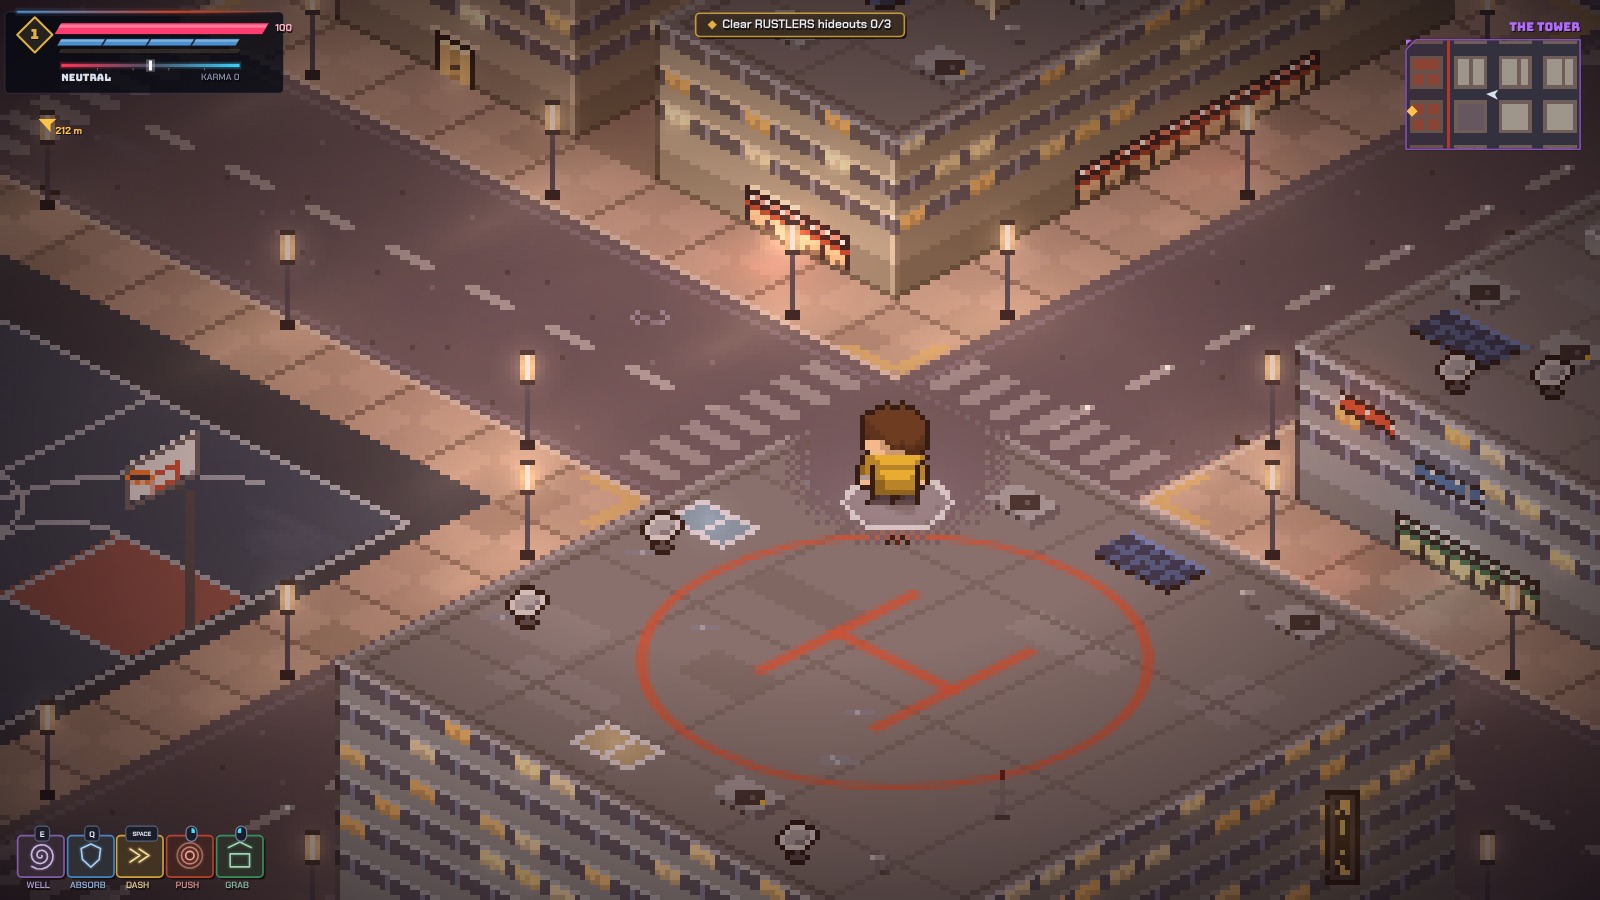
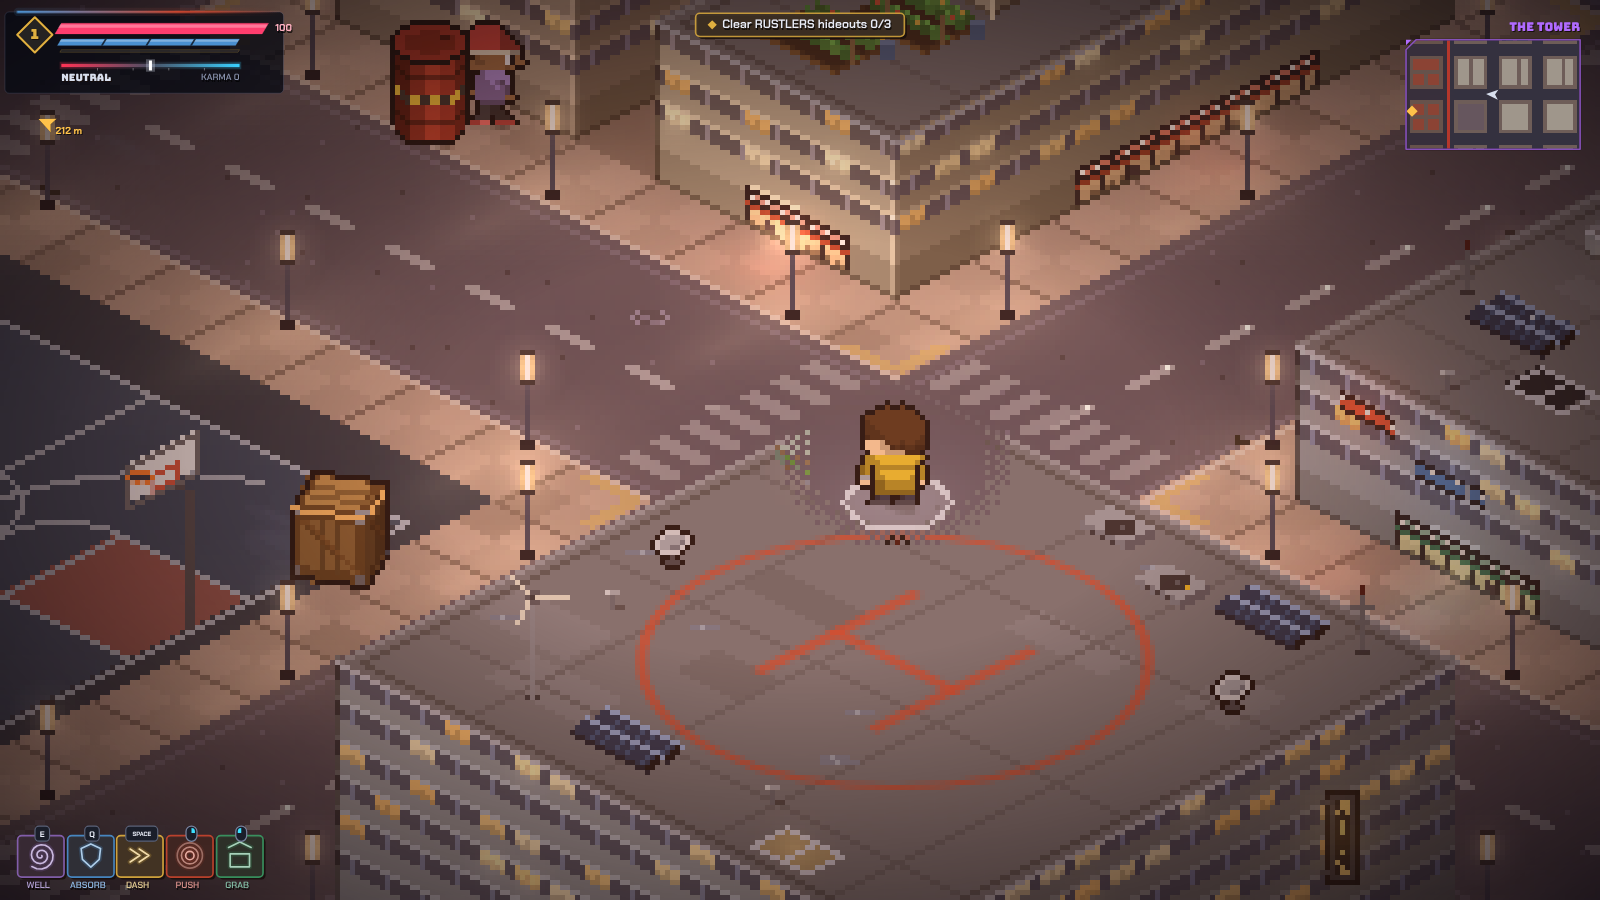
World: moss and ivy on walls; rooftop solar, gardens, greenhouses, wind turbines
The city is patched up by its people: tilted solar panels on roofs in
every district, raised vegetable beds with rain barrels, small
greenhouses with a warm grow-light, home-made wind turbines whose
blades turn. Walls get damp moss at the foot, streaks under the roof
edge and the odd climbing ivy (most in the Slums).

Claude-Session: https://claude.ai/code/session_01TQrqJid8SEs5fJFtrpg3VS

diff --git a/dist/gravitation.html b/dist/gravitation.html
@@ -7267,14 +7267,15 @@ function roofPlan(b) {
     const kind = rnd() < .45 ? 'pic' : rnd() < .5 ? 'txt' : 'both';
     place('bill', kind === 'pic' ? 26 : 44, 6, { kind, pic: (rnd() * SIGN_PIC.length) | 0, g: [(rnd() * 6) | 0, (rnd() * 6) | 0, (rnd() * 6) | 0], ci: (rnd() * 4) | 0, mode: rnd() < .6 ? 0 : rnd() < .5 ? 1 : 2, ph: rnd() * 10 }, .45);
   }
-  const menu = [[['ac', 3], ['hut', 1.2], ['sky', 1.5], ['tank', 1], ['vent', 2], ['dish', 1], ['mast', .7]],
-                [['tank', 2], ['tarp', 2], ['line', 1.6], ['hut', 1], ['vent', 2], ['ac', 1], ['sky', .5]],
-                [['ac', 3], ['solar', 2.6], ['dish', 1.4], ['mast', 1], ['sky', 1], ['vent', 1]]][d];
-  const size = { ac: [18, 12], hut: [20, 16], sky: [22, 14], tank: [14, 14], vent: [4, 4], dish: [8, 8], mast: [4, 4], tarp: [20, 14], line: [28, 4], solar: [30, 16] };
+  // the world: people power and feed themselves (solar everywhere, rooftop gardens, home-made turbines)
+  const menu = [[['ac', 2], ['hut', 1.2], ['sky', 1], ['tank', 1], ['vent', 1.5], ['dish', 1], ['mast', .5], ['solar', 2.2], ['garden', 1.6], ['turbine', .7], ['green', .6]],
+                [['tank', 2], ['tarp', 2], ['line', 1.6], ['hut', 1], ['vent', 1.5], ['solar', 1.6], ['garden', 2.2], ['turbine', 1], ['green', .5]],
+                [['ac', 2], ['solar', 3], ['dish', 1.2], ['mast', .8], ['sky', 1], ['vent', 1], ['green', 1.2], ['garden', .8], ['turbine', .5]]][d];
+  const size = { ac: [18, 12], hut: [20, 16], sky: [22, 14], tank: [14, 14], vent: [4, 4], dish: [8, 8], mast: [4, 4], tarp: [20, 14], line: [28, 4], solar: [30, 16], garden: [30, 20], green: [26, 18], turbine: [6, 6] };
   const total = menu.reduce((a, m) => a + m[1], 0), n = clamp(Math.round(w * h / 2400), 2, 16);
   for (let i = 0; i < n; i++) {
     let r = rnd() * total, k = menu[0][0]; for (const m of menu) { if (r < m[1]) { k = m[0]; break; } r -= m[1]; }
-    if ((k === 'hut' || k === 'mast') && R.some(o => o.k === k)) k = 'vent';
+    if ((k === 'hut' || k === 'mast' || k === 'green') && R.some(o => o.k === k)) k = 'vent';
     place(k, size[k][0], size[k][1], { c: (rnd() * 4) | 0 });
   }
   if ((hash2(b.x, b.y) & 3) === 0 && !R.some(o => o.k === 'mast')) place('mast', 4, 4, {});   // the old red rooftop light keeps its place in the skyline
@@ -7366,11 +7367,38 @@ function paintRoof(b, st, fx, pal, litK) {
       for (const p of [a, c]) { ctx.fillStyle = '#4a4e5a'; ctx.fillRect(Math.round(p[0]), Math.round(p[1]) - 6, 1, 6); }
       iline([a[0], a[1] - 6], [c[0], c[1] - 6], '#2e3038');
       const n = Math.round(c[0] - a[0]); for (let i = 2, k = (o.c | 0); i < n - 1; i += 3, k++) { ctx.fillStyle = cols[k % cols.length]; ctx.fillRect(Math.round(a[0]) + i, Math.round(lerp(a[1], c[1], i / n)) - 5, 2, 2 + (k & 1)); }
-    } else if (o.k === 'solar') {
-      const q = [isoXY(X, Y, ht + 2), isoXY(X + o.w, Y, ht + 2), isoXY(X + o.w, Y + o.h, ht + 2), isoXY(X, Y + o.h, ht + 2)];
-      ipoly(q.map(p => [p[0], p[1] + 1]), '#0a0c12'); ipoly(q, '#1a2c52');
-      for (let u = 6; u < o.w; u += 6) iline(isoXY(X + u, Y, ht + 2), isoXY(X + u, Y + o.h, ht + 2), '#35548e');
-      iline(isoXY(X, cy, ht + 2), isoXY(X + o.w, cy, ht + 2), '#35548e'); iline(q[0], q[1], '#5a7cc0');
+    } else if (o.k === 'solar') {   // rows of panels tilted up to the sky on steel legs
+      for (let r0 = 0; r0 + 6 <= o.h; r0 += 8) {
+        const lo = ht + 2, hi = ht + 8, q = [isoXY(X, Y + r0, hi), isoXY(X + o.w, Y + r0, hi), isoXY(X + o.w, Y + r0 + 6, lo), isoXY(X, Y + r0 + 6, lo)];
+        for (const u of [2, o.w - 2]) iline(isoXY(X + u, Y + r0, ht), isoXY(X + u, Y + r0, hi), '#3a3e4a');
+        ipoly(q.map(p => [p[0] + 1, p[1] + 1]), '#0a0c12'); ipoly(q, '#1c2e50');
+        for (let u = 5; u < o.w; u += 5) iline(isoXY(X + u, Y + r0, hi), isoXY(X + u, Y + r0 + 6, lo), '#2f4a7a');
+        iline(q[0], q[1], '#8aa6d8'); iline(q[3], q[2], '#121a2c');
+        if ((hash2(X + r0, Y) & 3) === 0) { const g = isoXY(X + 4 + (hash2(X, Y + r0) % Math.max(1, o.w - 8)), Y + r0 + 2, hi - 2); ipx(g[0], g[1], '#c8d8f0'); }   // sun glint
+      }
+    } else if (o.k === 'garden') {   // raised beds: timber edges, soil, rows of greens (tomatoes, beans on canes)
+      const bed = (bx, by, bw, bh) => {
+        ibox(bx, by, bw, bh, ht, 4, '#3a2a1c', '#6a4a2a', '#4a3220');
+        const top = [isoXY(bx + 1, by + 1, ht + 4), isoXY(bx + bw - 1, by + 1, ht + 4), isoXY(bx + bw - 1, by + bh - 1, ht + 4), isoXY(bx + 1, by + bh - 1, ht + 4)]; ipoly(top, '#2c2018');
+        for (let u = 3; u < bw - 2; u += 4) for (let v = 2; v < bh - 1; v += 3) { const p = isoXY(bx + u, by + v, ht + 4), hh = hash2(bx + u * 7, by + v * 13), gc = ['#2e6a2a', '#3e7e32', '#4e8e3a', '#2a5a24'][hh & 3];
+          ctx.fillStyle = gc; ctx.fillRect(Math.round(p[0]), Math.round(p[1]) - 2, 2, 2); ctx.fillStyle = shade(gc, 1.3); ctx.fillRect(Math.round(p[0]), Math.round(p[1]) - 3, 1, 1);
+          if ((hh >> 4) % 7 === 0) ipx(p[0] + 1, p[1] - 2, '#d04a32'); else if ((hh >> 4) % 9 === 0) ipx(p[0] + 1, p[1] - 2, '#e0b040'); }   // tomatoes, squash flowers
+      };
+      bed(X, Y, o.w, Math.floor(o.h / 2) - 1); bed(X, Y + Math.ceil(o.h / 2) + 1, o.w, Math.floor(o.h / 2) - 1);
+      if (o.s < .5) for (const u of [4, o.w - 4]) { const a = isoXY(X + u, Y + o.h / 2, ht), c = isoXY(X + u, Y + o.h / 2, ht + 18); iline(a, c, '#7a6040'); ipx(c[0] - 1, c[1] + 2, '#3e7e32'); ipx(c[0] + 1, c[1] + 4, '#3e7e32'); }   // bean canes
+      { const p = isoXY(X + o.w + 3, Y + 3, ht); ctx.fillStyle = '#3a5a8a'; ctx.fillRect(Math.round(p[0]) - 1, Math.round(p[1]) - 4, 3, 4); ctx.fillStyle = '#5a7aaa'; ctx.fillRect(Math.round(p[0]) - 1, Math.round(p[1]) - 4, 3, 1); }   // rain barrel
+    } else if (o.k === 'green') {   // a lean-to greenhouse: timber frame, glass, plants inside, a warm grow-light at night
+      const hz = 12, gl = '#6a8a90';
+      ibox(X, Y, o.w, o.h, ht, hz, mix('#a8c8c0', roof, .3), mix(gl, '#2a4a30', .35), mix(gl, '#1a3020', .45));
+      for (let u = 4; u < o.w; u += 5) { iline(isoXY(X + u, Y + o.h, ht), isoXY(X + u, Y + o.h, ht + hz), '#5a4a3a'); }
+      for (let v = 4; v < o.h; v += 5) iline(isoXY(X + o.w, Y + v, ht), isoXY(X + o.w, Y + v, ht + hz), '#4a3a2a');
+      iline(isoXY(X, Y + o.h, ht + hz), isoXY(X + o.w, Y + o.h, ht + hz), '#6a5a48');
+      for (let u = 3; u < o.w - 2; u += 3) { const p = isoXY(X + u, Y + o.h, ht + 3 + (u * 7) % 4); ipx(p[0], p[1], '#4e8e3a'); ipx(p[0], p[1] - 1, '#3e7e32'); }
+      fx.glow.push({ x: cx, y: Y + o.h, z: ht + 6, r: 9, col: '#ffcf90', a: .3 });
+    } else if (o.k === 'turbine') {   // home-made wind turbine: a pole, a hub, three blades (they turn: drawn live)
+      const p = isoXY(cx, cy, ht), PX = Math.round(p[0]), PY = Math.round(p[1]);
+      ctx.fillStyle = '#2a2d38'; ctx.fillRect(PX - 1, PY - 1, 3, 1); ctx.fillStyle = '#7a7f8c'; ctx.fillRect(PX, PY - 20, 1, 20); ctx.fillStyle = '#4a4e5a'; ctx.fillRect(PX - 1, PY - 22, 3, 3);
+      fx.turbines.push({ x: cx, y: cy, ph: o.s * 6.28, sp: 3 + o.s * 3 });
     } else if (o.k === 'bill') {
       const p = isoXY(cx, cy, ht), dims = { pic: [13, 13], txt: [21, 11], both: [25, 13] }[o.kind], SX = Math.round(p[0]) - (dims[0] >> 1), SY = Math.round(p[1]) - dims[1] - 4;
       signPanel(o, pal, SX, SY, false);
@@ -7415,7 +7443,7 @@ const BLD_TAGS = [['#..#.', '#.#.#', '.#..#'], ['.##..', '#..#.', '#.###'], ['#.
 function paintBuilding(b, st) {
   const x0 = b.x, y0 = b.y, x1 = b.x + b.w, y1 = b.y + b.h, ht = b.ht, d = b.d, wall = b.wall;
   const pal = neonPal(d), litK = st === 'liberated' ? 1.35 : st === 'dominated' ? .75 : 1;
-  const fx = { flick: [], glow: [], steam: [], bills: [], beacons: [], blades: [] };
+  const fx = { flick: [], glow: [], steam: [], bills: [], beacons: [], blades: [], turbines: [] };
   const g = wallGeo(b), { S, E, nS, nE, nR } = g, cw = ctx.canvas.width, ch = ctx.canvas.height, img = ctx.createImageData(cw, ch), data = img.data;
   const rr = mulberry(hash2(b.x * 3 + 17, b.y * 5 + 29));
   const setRGB = (X, Y, c, k) => { if (X < 0 || Y < 0 || X >= cw || Y >= ch) return; const o = (Y * cw + X) * 4; data[o] = Math.min(255, c[0] * k); data[o + 1] = Math.min(255, c[1] * k); data[o + 2] = Math.min(255, c[2] * k); data[o + 3] = 255; };
@@ -7459,6 +7487,26 @@ function paintBuilding(b, st) {
     if (on && wn.roll < .08) fx.glow.push({ x: wx, y: wy, z: wz, r: 6, col: lc0, a: .3 });
     // an air conditioner hanging under the odd window
     if (!glass && (hash2(ic + b.x, jc * 7 + b.y + side) % 100) < (d === 1 ? 14 : 7) && jc > 9) { put(W(ic, jc - 3), side ? '#7c8290' : '#aab0bc'); put(W(ic + 1, jc - 3), side ? '#565b68' : '#7c8290'); put(W(ic, jc - 4), shade(wall, side ? .45 : .7)); }
+  }
+  // ---- moss and ivy: the city has been left to the weather a while. Damp bases, streaks under ledges and sills, a few
+  //      buildings with ivy climbing a corner. Most in the Slums, some in Ground Zero, little on the Tower's glass.
+  { const mossK = [.55, 1, .18][d], mr = mulberry(hash2(b.x + 41, b.y + 97)), mc = ['#2e4a24', '#3a5a2a', '#4a6a30', '#243c1e'];
+    for (let side = 0; side < 2; side++) {
+      const n = side ? nE : nS, W = side ? E : S, dk = side ? .72 : 1;
+      for (let i = 0; i < n; i++) {   // damp base: a ragged band of moss along the foot of the wall
+        const hgt = Math.floor((Math.sin(i * .7 + b.x) * .5 + .5) * 3 * mossK + mr() * 2 * mossK);
+        for (let j = 1; j <= hgt; j++) if (mr() < .78) put(W(i, j), shade(mc[(mr() * 4) | 0], dk));
+      }
+      if (mossK > .3) for (let k = 0, m = Math.round(n / 14 * mossK); k < m; k++) {   // streaks running down from the roof edge
+        const i = 2 + ((mr() * (n - 4)) | 0), len = 3 + ((mr() * 8 * mossK) | 0);
+        for (let j = nR - 2, q = 0; q < len && j > 1; j--, q++) if (mr() < .85 - q * .06) put(W(i + (mr() < .2 ? 1 : 0), j), shade(mc[(mr() * 4) | 0], dk * (1 - q * .03)));
+      }
+      if (mr() < .45 * mossK && n > 12) {   // ivy up one stretch of wall: a twisting stem with leaves on both sides
+        let i = 2 + ((mr() * (n - 6)) | 0); const top = Math.min(nR - 2, 6 + ((mr() * nR) | 0));
+        for (let j = 1; j < top; j++) { i += mr() < .3 ? (mr() < .5 ? -1 : 1) : 0; i = clamp(i, 1, n - 2); put(W(i, j), shade('#2a3a1c', dk));
+          if (mr() < .7) put(W(i - 1, j), shade(mc[1 + ((mr() * 3) | 0)], dk)); if (mr() < .7) put(W(i + 1, j), shade(mc[1 + ((mr() * 3) | 0)], dk)); if (mr() < .3) put(W(i + (mr() < .5 ? -2 : 2), j), shade(mc[2], dk)); }
+      }
+    }
   }
   // ---- drainpipes, fire escape
   if (d !== 2) {
@@ -7569,6 +7617,11 @@ function drawIsoBuilding(b) {
     if (!on) continue;
     const p = isoXY(s.x, s.y, ht), SX = Math.round(p[0]) + s.dx, SY = Math.round(p[1]) + s.dy;
     ctx.drawImage(s.cv, SX, SY); iglow(SX + s.w / 2, SY + s.h / 2, s.w * .9, s.col, .42);
+  }
+  for (const tb of (fx.turbines || [])) {   // home-made turbines: three blades turning (pixel lines from the hub)
+    const p = isoXY(tb.x, tb.y, ht), hx = Math.round(p[0]), hy = Math.round(p[1]) - 21, a0 = t * tb.sp + tb.ph;
+    for (let k = 0; k < 3; k++) { const a = a0 + k * 2.094; iline([hx, hy], [hx + Math.cos(a) * 7, hy + Math.sin(a) * 5], '#d8d4c8'); }
+    ipx(hx, hy, '#2a2d38');
   }
   for (const m of fx.beacons) { const on = Math.sin(t * 2.4 + b.x + m.x) > 0, p = isoXY(m.x, m.y, ht), PX = Math.round(p[0]), PY = Math.round(p[1]) - m.hh - 1; ctx.fillStyle = on ? '#ff2a2a' : '#401010'; ctx.fillRect(PX, PY, 1, 2); if (on) iglow(PX + .5, PY + 1, 6, '#ff2a2a', .7); }
   for (const v of fx.steam) {

diff --git a/src/js/11g_buildings.js b/src/js/11g_buildings.js
@@ -218,14 +218,15 @@ function roofPlan(b) {
     const kind = rnd() < .45 ? 'pic' : rnd() < .5 ? 'txt' : 'both';
     place('bill', kind === 'pic' ? 26 : 44, 6, { kind, pic: (rnd() * SIGN_PIC.length) | 0, g: [(rnd() * 6) | 0, (rnd() * 6) | 0, (rnd() * 6) | 0], ci: (rnd() * 4) | 0, mode: rnd() < .6 ? 0 : rnd() < .5 ? 1 : 2, ph: rnd() * 10 }, .45);
   }
-  const menu = [[['ac', 3], ['hut', 1.2], ['sky', 1.5], ['tank', 1], ['vent', 2], ['dish', 1], ['mast', .7]],
-                [['tank', 2], ['tarp', 2], ['line', 1.6], ['hut', 1], ['vent', 2], ['ac', 1], ['sky', .5]],
-                [['ac', 3], ['solar', 2.6], ['dish', 1.4], ['mast', 1], ['sky', 1], ['vent', 1]]][d];
-  const size = { ac: [18, 12], hut: [20, 16], sky: [22, 14], tank: [14, 14], vent: [4, 4], dish: [8, 8], mast: [4, 4], tarp: [20, 14], line: [28, 4], solar: [30, 16] };
+  // the world: people power and feed themselves (solar everywhere, rooftop gardens, home-made turbines)
+  const menu = [[['ac', 2], ['hut', 1.2], ['sky', 1], ['tank', 1], ['vent', 1.5], ['dish', 1], ['mast', .5], ['solar', 2.2], ['garden', 1.6], ['turbine', .7], ['green', .6]],
+                [['tank', 2], ['tarp', 2], ['line', 1.6], ['hut', 1], ['vent', 1.5], ['solar', 1.6], ['garden', 2.2], ['turbine', 1], ['green', .5]],
+                [['ac', 2], ['solar', 3], ['dish', 1.2], ['mast', .8], ['sky', 1], ['vent', 1], ['green', 1.2], ['garden', .8], ['turbine', .5]]][d];
+  const size = { ac: [18, 12], hut: [20, 16], sky: [22, 14], tank: [14, 14], vent: [4, 4], dish: [8, 8], mast: [4, 4], tarp: [20, 14], line: [28, 4], solar: [30, 16], garden: [30, 20], green: [26, 18], turbine: [6, 6] };
   const total = menu.reduce((a, m) => a + m[1], 0), n = clamp(Math.round(w * h / 2400), 2, 16);
   for (let i = 0; i < n; i++) {
     let r = rnd() * total, k = menu[0][0]; for (const m of menu) { if (r < m[1]) { k = m[0]; break; } r -= m[1]; }
-    if ((k === 'hut' || k === 'mast') && R.some(o => o.k === k)) k = 'vent';
+    if ((k === 'hut' || k === 'mast' || k === 'green') && R.some(o => o.k === k)) k = 'vent';
     place(k, size[k][0], size[k][1], { c: (rnd() * 4) | 0 });
   }
   if ((hash2(b.x, b.y) & 3) === 0 && !R.some(o => o.k === 'mast')) place('mast', 4, 4, {});   // the old red rooftop light keeps its place in the skyline
@@ -317,11 +318,38 @@ function paintRoof(b, st, fx, pal, litK) {
       for (const p of [a, c]) { ctx.fillStyle = '#4a4e5a'; ctx.fillRect(Math.round(p[0]), Math.round(p[1]) - 6, 1, 6); }
       iline([a[0], a[1] - 6], [c[0], c[1] - 6], '#2e3038');
       const n = Math.round(c[0] - a[0]); for (let i = 2, k = (o.c | 0); i < n - 1; i += 3, k++) { ctx.fillStyle = cols[k % cols.length]; ctx.fillRect(Math.round(a[0]) + i, Math.round(lerp(a[1], c[1], i / n)) - 5, 2, 2 + (k & 1)); }
-    } else if (o.k === 'solar') {
-      const q = [isoXY(X, Y, ht + 2), isoXY(X + o.w, Y, ht + 2), isoXY(X + o.w, Y + o.h, ht + 2), isoXY(X, Y + o.h, ht + 2)];
-      ipoly(q.map(p => [p[0], p[1] + 1]), '#0a0c12'); ipoly(q, '#1a2c52');
-      for (let u = 6; u < o.w; u += 6) iline(isoXY(X + u, Y, ht + 2), isoXY(X + u, Y + o.h, ht + 2), '#35548e');
-      iline(isoXY(X, cy, ht + 2), isoXY(X + o.w, cy, ht + 2), '#35548e'); iline(q[0], q[1], '#5a7cc0');
+    } else if (o.k === 'solar') {   // rows of panels tilted up to the sky on steel legs
+      for (let r0 = 0; r0 + 6 <= o.h; r0 += 8) {
+        const lo = ht + 2, hi = ht + 8, q = [isoXY(X, Y + r0, hi), isoXY(X + o.w, Y + r0, hi), isoXY(X + o.w, Y + r0 + 6, lo), isoXY(X, Y + r0 + 6, lo)];
+        for (const u of [2, o.w - 2]) iline(isoXY(X + u, Y + r0, ht), isoXY(X + u, Y + r0, hi), '#3a3e4a');
+        ipoly(q.map(p => [p[0] + 1, p[1] + 1]), '#0a0c12'); ipoly(q, '#1c2e50');
+        for (let u = 5; u < o.w; u += 5) iline(isoXY(X + u, Y + r0, hi), isoXY(X + u, Y + r0 + 6, lo), '#2f4a7a');
+        iline(q[0], q[1], '#8aa6d8'); iline(q[3], q[2], '#121a2c');
+        if ((hash2(X + r0, Y) & 3) === 0) { const g = isoXY(X + 4 + (hash2(X, Y + r0) % Math.max(1, o.w - 8)), Y + r0 + 2, hi - 2); ipx(g[0], g[1], '#c8d8f0'); }   // sun glint
+      }
+    } else if (o.k === 'garden') {   // raised beds: timber edges, soil, rows of greens (tomatoes, beans on canes)
+      const bed = (bx, by, bw, bh) => {
+        ibox(bx, by, bw, bh, ht, 4, '#3a2a1c', '#6a4a2a', '#4a3220');
+        const top = [isoXY(bx + 1, by + 1, ht + 4), isoXY(bx + bw - 1, by + 1, ht + 4), isoXY(bx + bw - 1, by + bh - 1, ht + 4), isoXY(bx + 1, by + bh - 1, ht + 4)]; ipoly(top, '#2c2018');
+        for (let u = 3; u < bw - 2; u += 4) for (let v = 2; v < bh - 1; v += 3) { const p = isoXY(bx + u, by + v, ht + 4), hh = hash2(bx + u * 7, by + v * 13), gc = ['#2e6a2a', '#3e7e32', '#4e8e3a', '#2a5a24'][hh & 3];
+          ctx.fillStyle = gc; ctx.fillRect(Math.round(p[0]), Math.round(p[1]) - 2, 2, 2); ctx.fillStyle = shade(gc, 1.3); ctx.fillRect(Math.round(p[0]), Math.round(p[1]) - 3, 1, 1);
+          if ((hh >> 4) % 7 === 0) ipx(p[0] + 1, p[1] - 2, '#d04a32'); else if ((hh >> 4) % 9 === 0) ipx(p[0] + 1, p[1] - 2, '#e0b040'); }   // tomatoes, squash flowers
+      };
+      bed(X, Y, o.w, Math.floor(o.h / 2) - 1); bed(X, Y + Math.ceil(o.h / 2) + 1, o.w, Math.floor(o.h / 2) - 1);
+      if (o.s < .5) for (const u of [4, o.w - 4]) { const a = isoXY(X + u, Y + o.h / 2, ht), c = isoXY(X + u, Y + o.h / 2, ht + 18); iline(a, c, '#7a6040'); ipx(c[0] - 1, c[1] + 2, '#3e7e32'); ipx(c[0] + 1, c[1] + 4, '#3e7e32'); }   // bean canes
+      { const p = isoXY(X + o.w + 3, Y + 3, ht); ctx.fillStyle = '#3a5a8a'; ctx.fillRect(Math.round(p[0]) - 1, Math.round(p[1]) - 4, 3, 4); ctx.fillStyle = '#5a7aaa'; ctx.fillRect(Math.round(p[0]) - 1, Math.round(p[1]) - 4, 3, 1); }   // rain barrel
+    } else if (o.k === 'green') {   // a lean-to greenhouse: timber frame, glass, plants inside, a warm grow-light at night
+      const hz = 12, gl = '#6a8a90';
+      ibox(X, Y, o.w, o.h, ht, hz, mix('#a8c8c0', roof, .3), mix(gl, '#2a4a30', .35), mix(gl, '#1a3020', .45));
+      for (let u = 4; u < o.w; u += 5) { iline(isoXY(X + u, Y + o.h, ht), isoXY(X + u, Y + o.h, ht + hz), '#5a4a3a'); }
+      for (let v = 4; v < o.h; v += 5) iline(isoXY(X + o.w, Y + v, ht), isoXY(X + o.w, Y + v, ht + hz), '#4a3a2a');
+      iline(isoXY(X, Y + o.h, ht + hz), isoXY(X + o.w, Y + o.h, ht + hz), '#6a5a48');
+      for (let u = 3; u < o.w - 2; u += 3) { const p = isoXY(X + u, Y + o.h, ht + 3 + (u * 7) % 4); ipx(p[0], p[1], '#4e8e3a'); ipx(p[0], p[1] - 1, '#3e7e32'); }
+      fx.glow.push({ x: cx, y: Y + o.h, z: ht + 6, r: 9, col: '#ffcf90', a: .3 });
+    } else if (o.k === 'turbine') {   // home-made wind turbine: a pole, a hub, three blades (they turn: drawn live)
+      const p = isoXY(cx, cy, ht), PX = Math.round(p[0]), PY = Math.round(p[1]);
+      ctx.fillStyle = '#2a2d38'; ctx.fillRect(PX - 1, PY - 1, 3, 1); ctx.fillStyle = '#7a7f8c'; ctx.fillRect(PX, PY - 20, 1, 20); ctx.fillStyle = '#4a4e5a'; ctx.fillRect(PX - 1, PY - 22, 3, 3);
+      fx.turbines.push({ x: cx, y: cy, ph: o.s * 6.28, sp: 3 + o.s * 3 });
     } else if (o.k === 'bill') {
       const p = isoXY(cx, cy, ht), dims = { pic: [13, 13], txt: [21, 11], both: [25, 13] }[o.kind], SX = Math.round(p[0]) - (dims[0] >> 1), SY = Math.round(p[1]) - dims[1] - 4;
       signPanel(o, pal, SX, SY, false);
@@ -366,7 +394,7 @@ const BLD_TAGS = [['#..#.', '#.#.#', '.#..#'], ['.##..', '#..#.', '#.###'], ['#.
 function paintBuilding(b, st) {
   const x0 = b.x, y0 = b.y, x1 = b.x + b.w, y1 = b.y + b.h, ht = b.ht, d = b.d, wall = b.wall;
   const pal = neonPal(d), litK = st === 'liberated' ? 1.35 : st === 'dominated' ? .75 : 1;
-  const fx = { flick: [], glow: [], steam: [], bills: [], beacons: [], blades: [] };
+  const fx = { flick: [], glow: [], steam: [], bills: [], beacons: [], blades: [], turbines: [] };
   const g = wallGeo(b), { S, E, nS, nE, nR } = g, cw = ctx.canvas.width, ch = ctx.canvas.height, img = ctx.createImageData(cw, ch), data = img.data;
   const rr = mulberry(hash2(b.x * 3 + 17, b.y * 5 + 29));
   const setRGB = (X, Y, c, k) => { if (X < 0 || Y < 0 || X >= cw || Y >= ch) return; const o = (Y * cw + X) * 4; data[o] = Math.min(255, c[0] * k); data[o + 1] = Math.min(255, c[1] * k); data[o + 2] = Math.min(255, c[2] * k); data[o + 3] = 255; };
@@ -410,6 +438,26 @@ function paintBuilding(b, st) {
     if (on && wn.roll < .08) fx.glow.push({ x: wx, y: wy, z: wz, r: 6, col: lc0, a: .3 });
     // an air conditioner hanging under the odd window
     if (!glass && (hash2(ic + b.x, jc * 7 + b.y + side) % 100) < (d === 1 ? 14 : 7) && jc > 9) { put(W(ic, jc - 3), side ? '#7c8290' : '#aab0bc'); put(W(ic + 1, jc - 3), side ? '#565b68' : '#7c8290'); put(W(ic, jc - 4), shade(wall, side ? .45 : .7)); }
+  }
+  // ---- moss and ivy: the city has been left to the weather a while. Damp bases, streaks under ledges and sills, a few
+  //      buildings with ivy climbing a corner. Most in the Slums, some in Ground Zero, little on the Tower's glass.
+  { const mossK = [.55, 1, .18][d], mr = mulberry(hash2(b.x + 41, b.y + 97)), mc = ['#2e4a24', '#3a5a2a', '#4a6a30', '#243c1e'];
+    for (let side = 0; side < 2; side++) {
+      const n = side ? nE : nS, W = side ? E : S, dk = side ? .72 : 1;
+      for (let i = 0; i < n; i++) {   // damp base: a ragged band of moss along the foot of the wall
+        const hgt = Math.floor((Math.sin(i * .7 + b.x) * .5 + .5) * 3 * mossK + mr() * 2 * mossK);
+        for (let j = 1; j <= hgt; j++) if (mr() < .78) put(W(i, j), shade(mc[(mr() * 4) | 0], dk));
+      }
+      if (mossK > .3) for (let k = 0, m = Math.round(n / 14 * mossK); k < m; k++) {   // streaks running down from the roof edge
+        const i = 2 + ((mr() * (n - 4)) | 0), len = 3 + ((mr() * 8 * mossK) | 0);
+        for (let j = nR - 2, q = 0; q < len && j > 1; j--, q++) if (mr() < .85 - q * .06) put(W(i + (mr() < .2 ? 1 : 0), j), shade(mc[(mr() * 4) | 0], dk * (1 - q * .03)));
+      }
+      if (mr() < .45 * mossK && n > 12) {   // ivy up one stretch of wall: a twisting stem with leaves on both sides
+        let i = 2 + ((mr() * (n - 6)) | 0); const top = Math.min(nR - 2, 6 + ((mr() * nR) | 0));
+        for (let j = 1; j < top; j++) { i += mr() < .3 ? (mr() < .5 ? -1 : 1) : 0; i = clamp(i, 1, n - 2); put(W(i, j), shade('#2a3a1c', dk));
+          if (mr() < .7) put(W(i - 1, j), shade(mc[1 + ((mr() * 3) | 0)], dk)); if (mr() < .7) put(W(i + 1, j), shade(mc[1 + ((mr() * 3) | 0)], dk)); if (mr() < .3) put(W(i + (mr() < .5 ? -2 : 2), j), shade(mc[2], dk)); }
+      }
+    }
   }
   // ---- drainpipes, fire escape
   if (d !== 2) {
@@ -520,6 +568,11 @@ function drawIsoBuilding(b) {
     if (!on) continue;
     const p = isoXY(s.x, s.y, ht), SX = Math.round(p[0]) + s.dx, SY = Math.round(p[1]) + s.dy;
     ctx.drawImage(s.cv, SX, SY); iglow(SX + s.w / 2, SY + s.h / 2, s.w * .9, s.col, .42);
+  }
+  for (const tb of (fx.turbines || [])) {   // home-made turbines: three blades turning (pixel lines from the hub)
+    const p = isoXY(tb.x, tb.y, ht), hx = Math.round(p[0]), hy = Math.round(p[1]) - 21, a0 = t * tb.sp + tb.ph;
+    for (let k = 0; k < 3; k++) { const a = a0 + k * 2.094; iline([hx, hy], [hx + Math.cos(a) * 7, hy + Math.sin(a) * 5], '#d8d4c8'); }
+    ipx(hx, hy, '#2a2d38');
   }
   for (const m of fx.beacons) { const on = Math.sin(t * 2.4 + b.x + m.x) > 0, p = isoXY(m.x, m.y, ht), PX = Math.round(p[0]), PY = Math.round(p[1]) - m.hh - 1; ctx.fillStyle = on ? '#ff2a2a' : '#401010'; ctx.fillRect(PX, PY, 1, 2); if (on) iglow(PX + .5, PY + 1, 6, '#ff2a2a', .7); }
   for (const v of fx.steam) {
